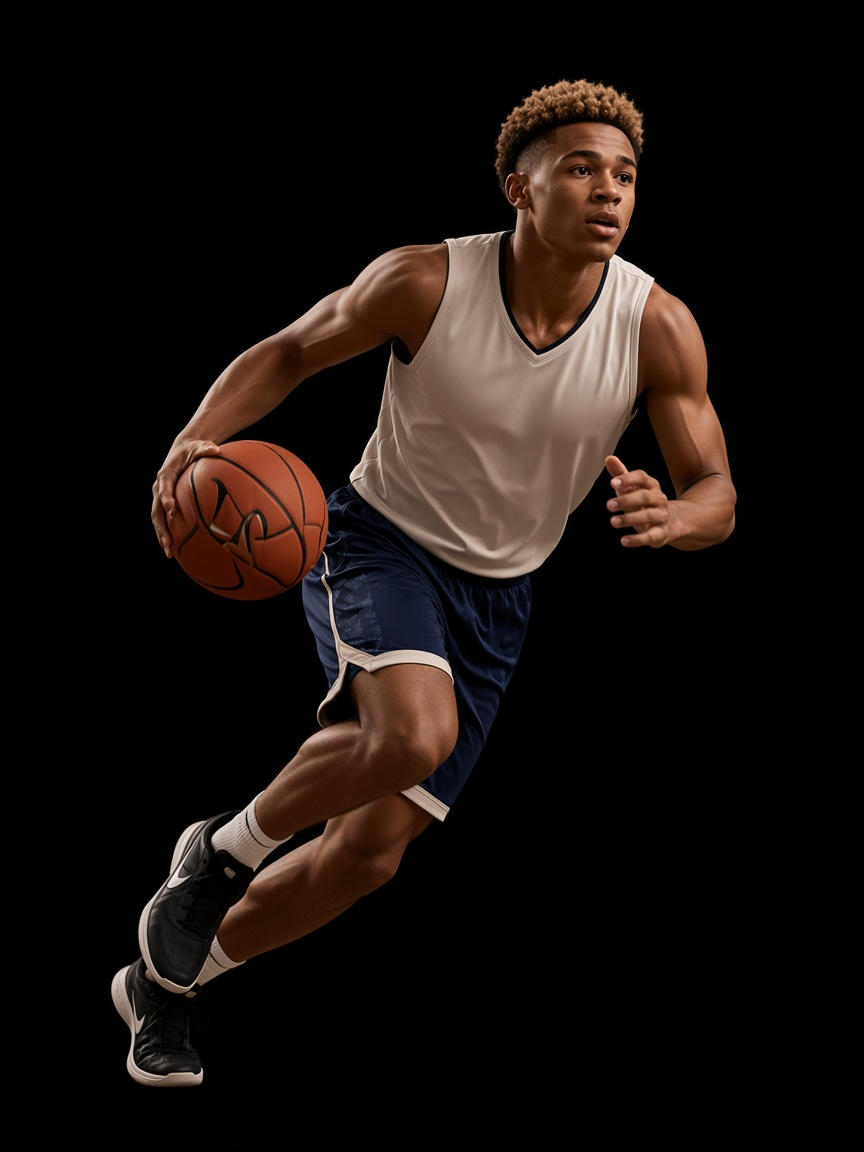
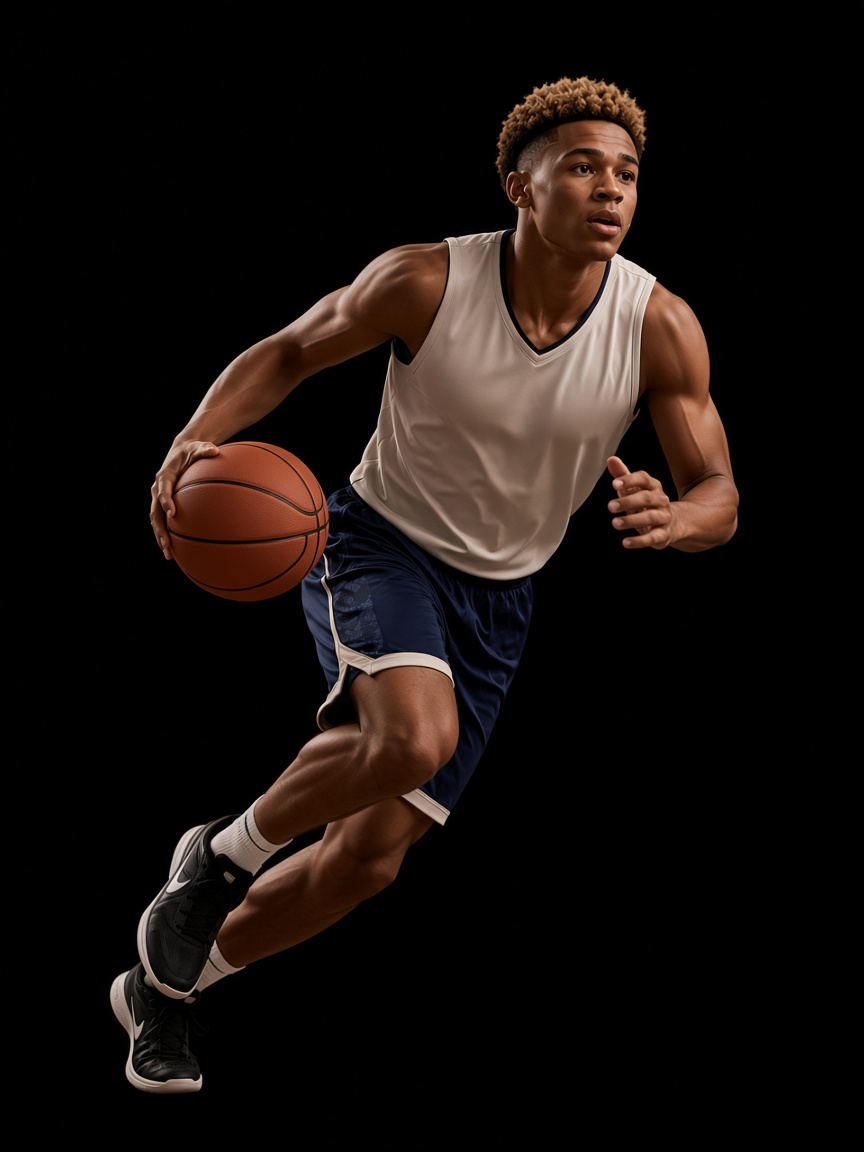
Replace the speed still so the ball has no garbled mark.

diff --git a/method.html b/method.html
@@ -73,7 +73,7 @@
           <figcaption>Assess · <span data-shot-label>Catch</span></figcaption>
         </figure>
         <figure class="still shot-reel" data-shot>
-          <img class="is-on" src="assets/install-1-fly.jpg" alt="He attacks at speed." data-label="Speed">
+          <img class="is-on" src="assets/install-1-fly.jpg?v=2" alt="He attacks at speed." data-label="Speed">
           <img src="assets/install-2-meet.jpg" alt="He meets the defender." data-label="Meet">
           <img src="assets/install-3-load.jpg" alt="He loads with the defender there." data-label="Load">
           <img src="assets/install-4-hand.jpg" alt="A hand is up in his face." data-label="Hand">
